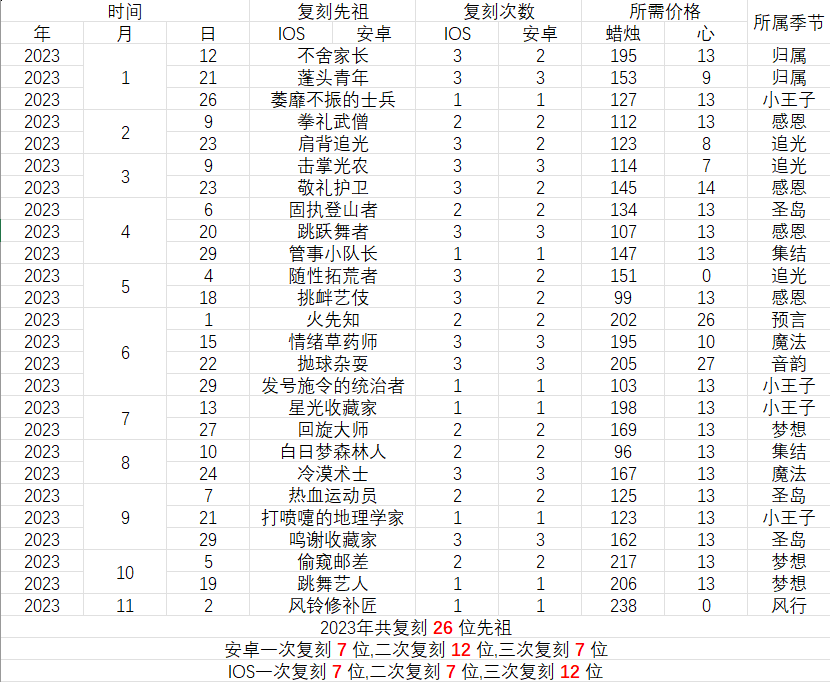
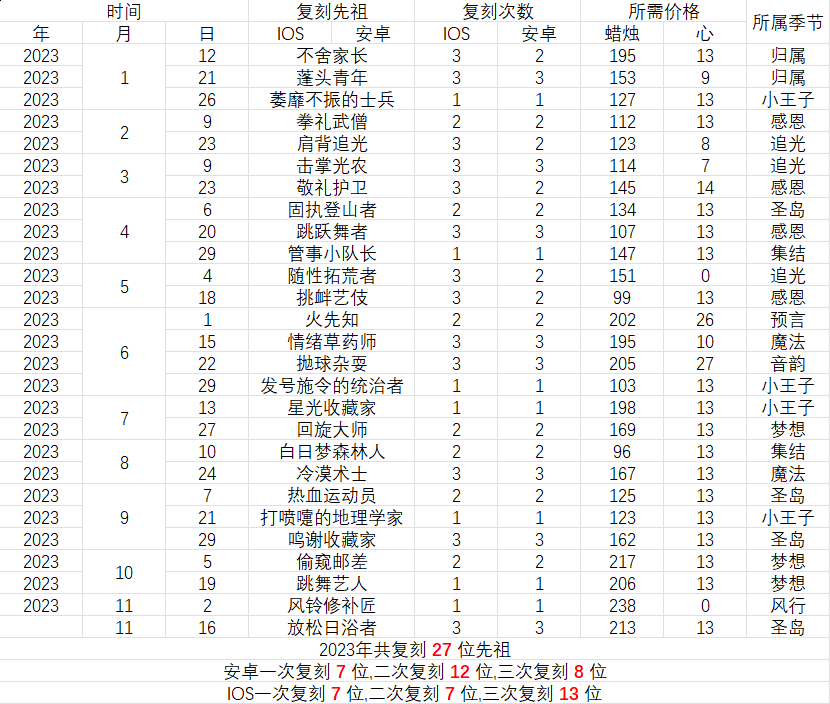
* 2023/11/26

diff --git a/apps/「光遇」先祖多久未复刻查询.js b/apps/「光遇」先祖多久未复刻查询.js
@@ -41,7 +41,7 @@ const 魔法 = [
   { name: '蟹舞者', date: new Date('2021-04-12') }
 ];
 const 圣岛 = [
-  { name: '放松日浴者', date: new Date('2022-09-13') },
+  { name: '放松日浴者', date: new Date('2023-11-20') },
   { name: '鸣谢收藏家', date: new Date('2023-10-03') },
   { name: '固执登山者', date: new Date('2023-04-10') },
   { name: '热血运动员', date: new Date('2023-09-11') },
@@ -238,7 +238,7 @@ export class 光遇_先祖多久未复刻查询 extends plugin {
     const today = new Date();
 
     for (const role of 风行) {
-      const timeDiff = today.getTime() - role.data.getTime();
+      const timeDiff = today.getTime() - role.date.getTime();
       const dayDiff = Math.floor(timeDiff / (1000 * 60 * 60 * 24)).toString().padStart(3, '0');
       msg += `${role.name}已[ ${dayDiff} ]天！未复刻\n`;
     }

diff --git a/apps/「光遇」兑换图.js b/apps/「光遇」兑换图.js
@@ -15,7 +15,7 @@ export class 光遇_兑换图 extends plugin {
           reg: /^(#|\/)?常驻兑换图$/,
           fnc: '常驻兑换图'
         },{
-          reg: /^(#|\/)?往期复刻图/,
+          reg: /^(#|\/)?往期复刻$/,
           fnc: '往期复刻图'
         }
       ]
@@ -37,13 +37,6 @@ export class 光遇_兑换图 extends plugin {
   }
   async 往期复刻图(e) {
     const imgreply = 'plugins/Tlon-Sky/resource/help/往期复刻记录.png'
-    e.reply(
-      imgreply ? segment.image(imgreply) : ""
-    )
-    return true;
-  }
-  async 活动兑换图(e) {
-    const imgreply = 'plugins/Tlon-Sky/resource/help/活动兑换图.png'
     e.reply(
       imgreply ? segment.image(imgreply) : ""
     )

diff --git a/index.js b/index.js
@@ -5,7 +5,9 @@ import chalk from 'chalk'
 if (!global.segment) {
   global.segment = (await import("oicq")).segment
 }
-
+fs.mkdirSync('plugins/Tlon-Sky/data', { recursive: true })
+fs.mkdirSync('plugins/Tlon-Sky/data/Sky签到', { recursive: true })
+fs.mkdirSync('plugins/Tlon-Sky/data/背包', { recursive: true })
 const dir1 = './plugins/Tlon-Sky/apps';
 
 const files = [

diff --git a/config/model/help_model.js b/config/model/help_model.js
@@ -64,10 +64,6 @@ export const helpList = [{
         "title": "#季节兑换图",
         "desc": "查看季节兑换图列表"
       }, {
-        "icon": 23,
-        "title": "#活动兑换图",
-        "desc": "查看活动兑换图列表"
-      }, {
         "icon": 33,
         "title": "#复刻兑换图",
         "desc": "查看最近一次复刻的兑换图"
